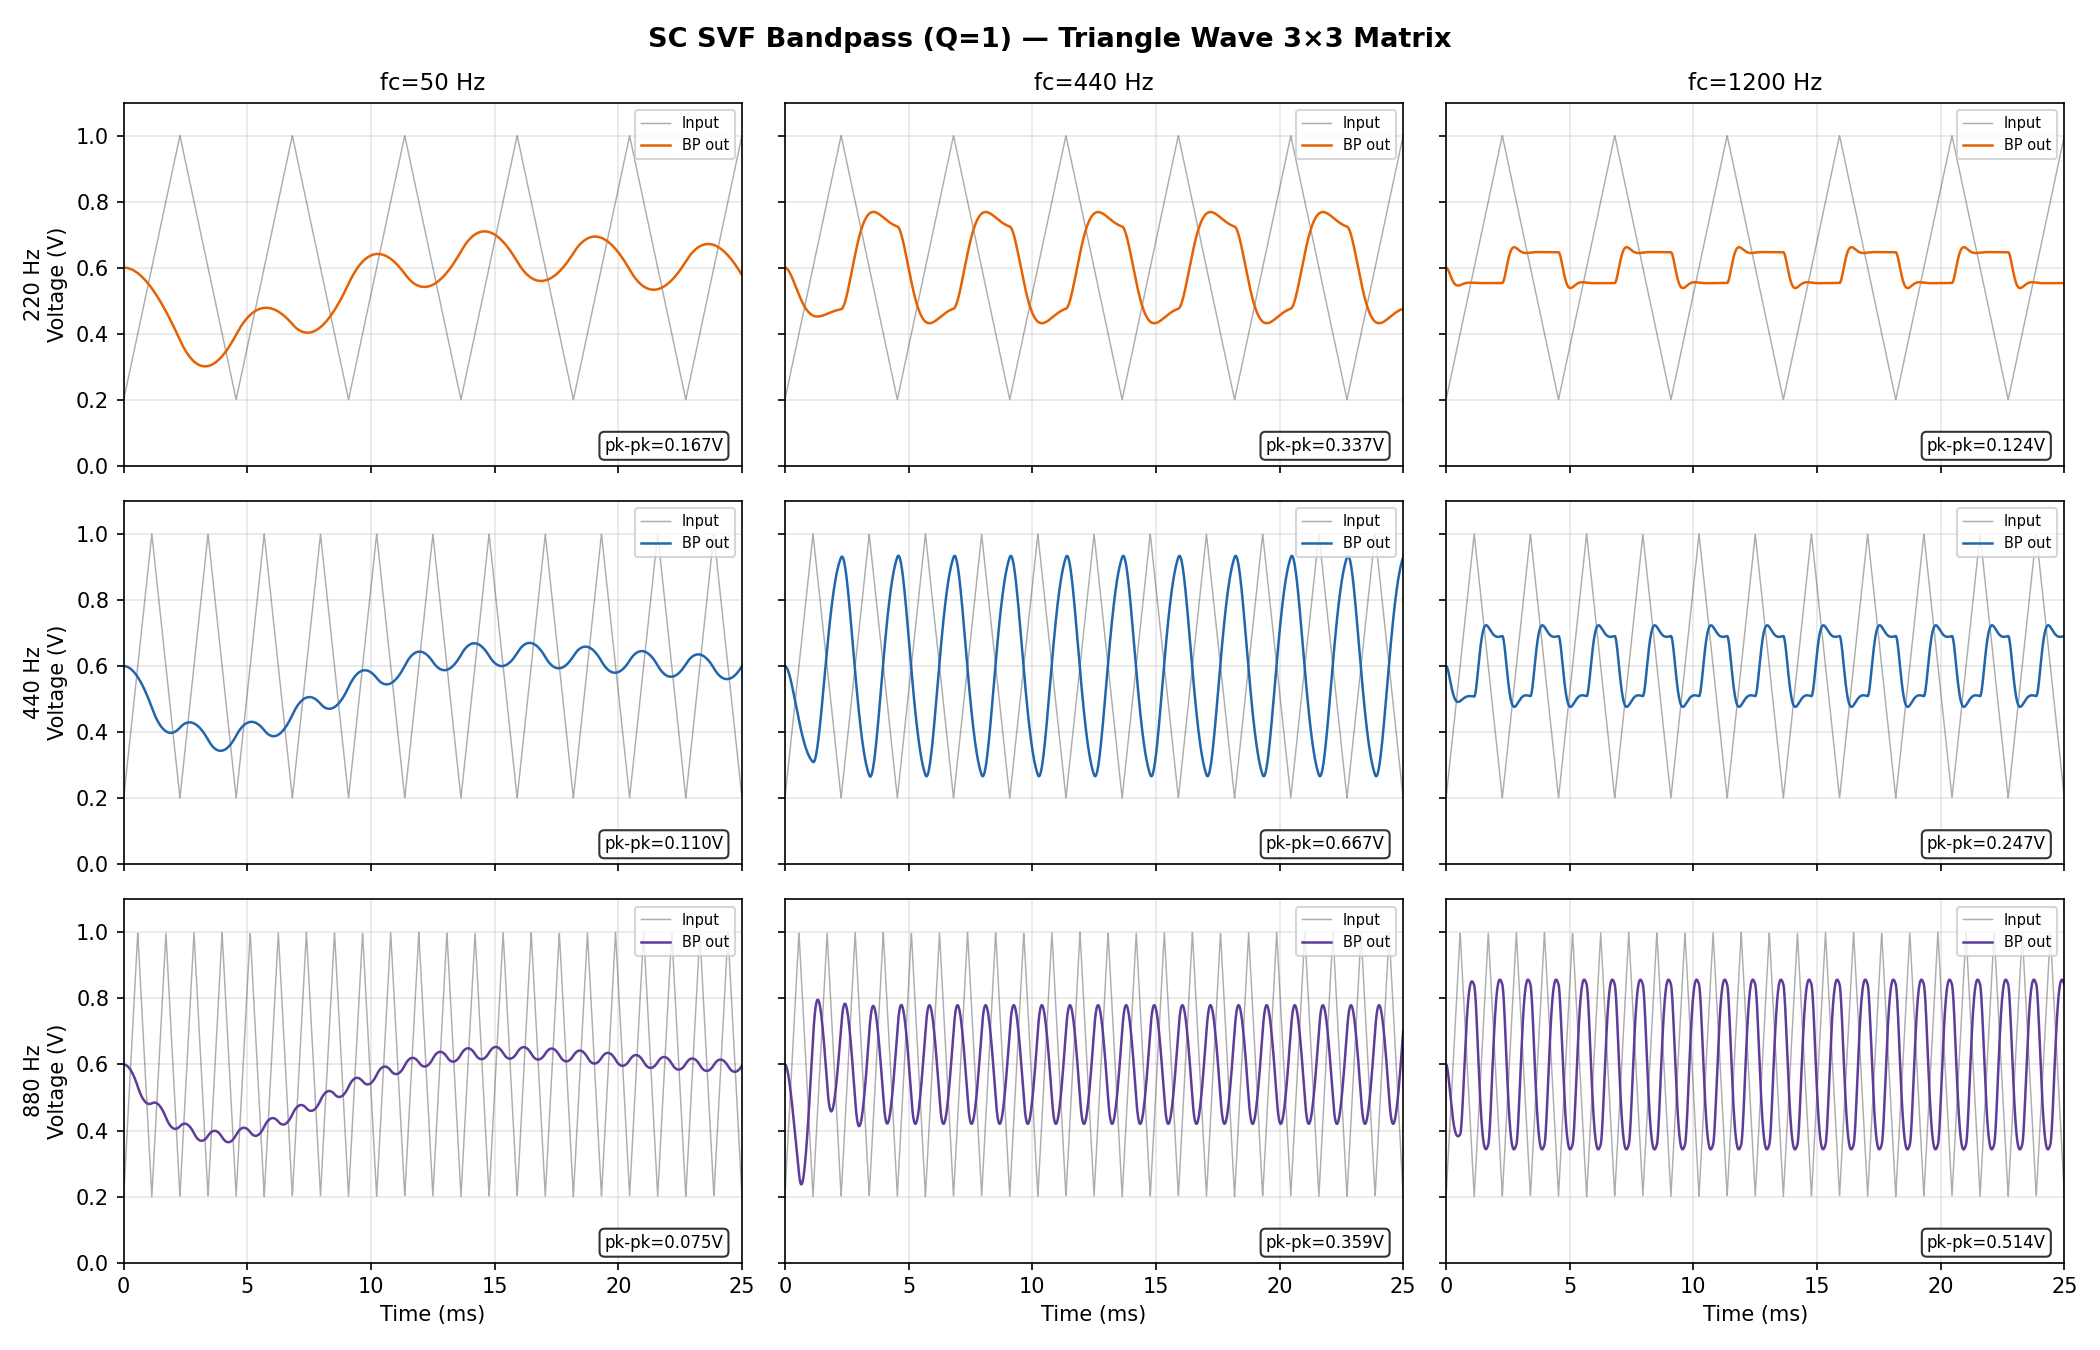
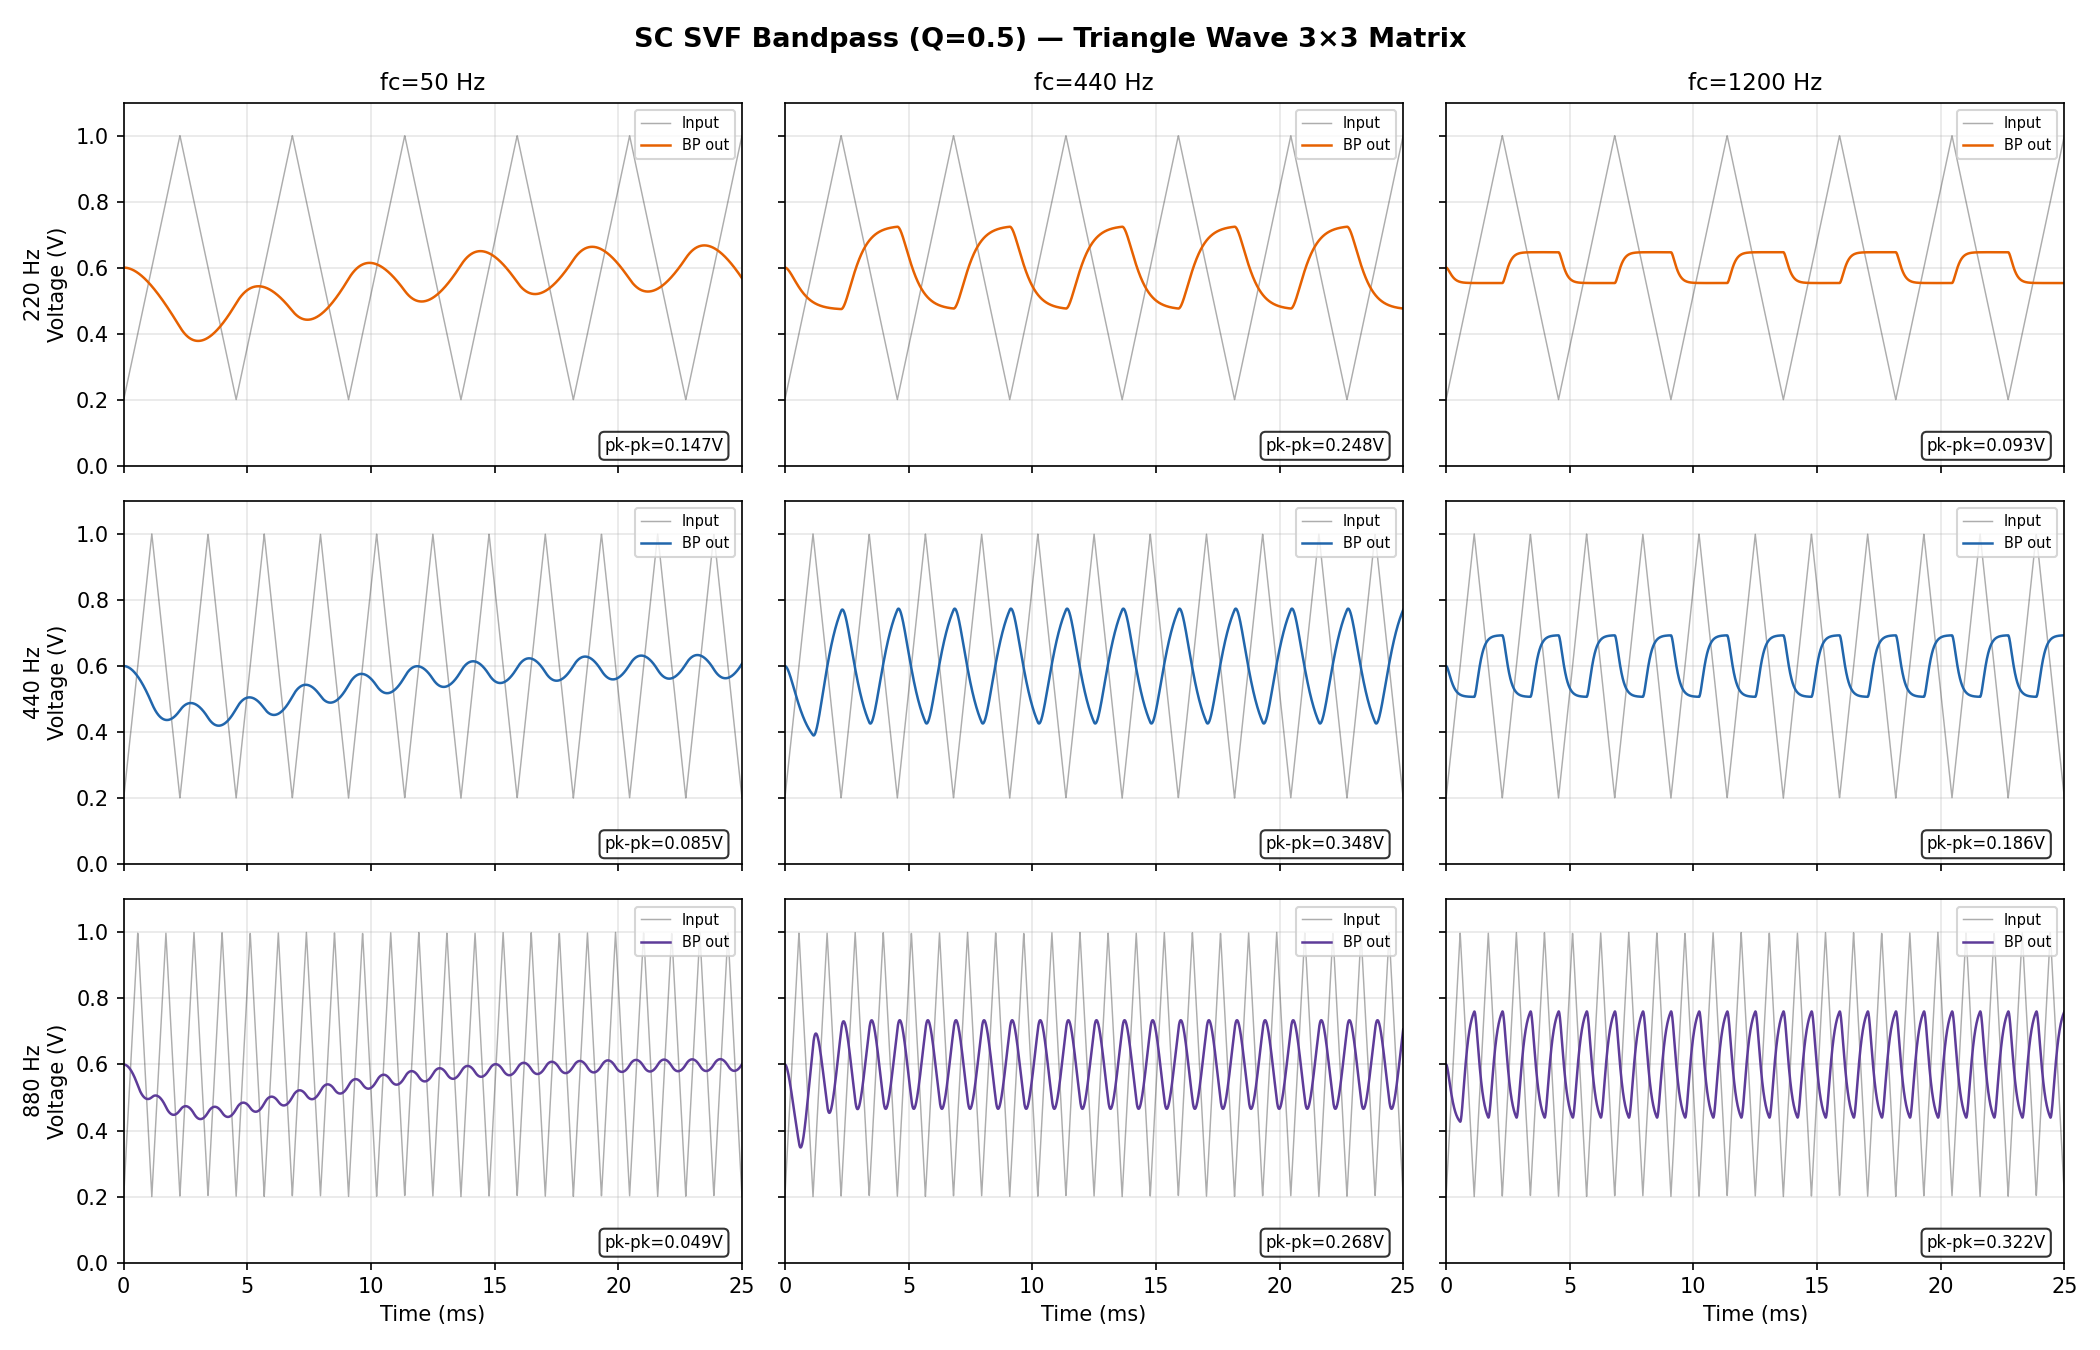
Change SVF triangle testbenches from Q=1 to Q=0.5
Lower Q widens BP bandwidth and halves peak gain as expected:
- 440Hz/fc=440Hz BP peak: 0.348V (was 0.667V at Q=1)
- Full chain 440Hz/fc=440Hz: SVF=0.409V, ADC=0.409V
- All 5 triangle-wave testbenches pass at Q=0.5
- Regenerated SVF matrix and full chain plots

diff --git a/analog_sim/plot_tri_results.py b/analog_sim/plot_tri_results.py
@@ -121,7 +121,7 @@ for row, freq in enumerate(freqs):
 axes2[0, 0].set_xlim(0, 25)
 axes2[0, 0].set_ylim(0, 1.1)
 
-fig2.suptitle('SC SVF Bandpass (Q=1) — Triangle Wave 3×3 Matrix', fontsize=13, fontweight='bold')
+fig2.suptitle('SC SVF Bandpass (Q=0.5) — Triangle Wave 3×3 Matrix', fontsize=13, fontweight='bold')
 fig2.tight_layout()
 fig2.savefig('svf/sc_svf_tri_matrix.png', dpi=150)
 print('  Wrote svf/sc_svf_tri_matrix.png')
@@ -251,7 +251,7 @@ for row, freq in enumerate(freqs):
 axes5[0, 0].set_xlim(0, 25)
 axes5[0, 0].set_ylim(0, 1.2)
 
-fig5.suptitle('Full Chain: DAC → SVF (BP, Q=1) → ADC — Triangle Wave 3×3', fontsize=13, fontweight='bold')
+fig5.suptitle('Full Chain: DAC → SVF (BP, Q=0.5) → ADC — Triangle Wave 3×3', fontsize=13, fontweight='bold')
 fig5.tight_layout()
 fig5.savefig('full_chain/tri_chain_matrix.png', dpi=150)
 print('  Wrote full_chain/tri_chain_matrix.png')
